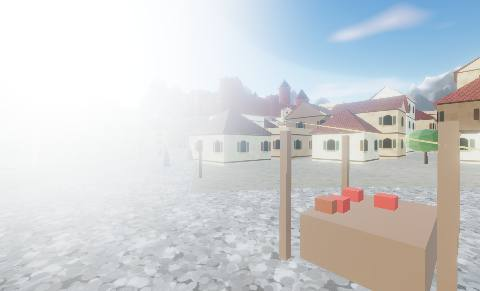
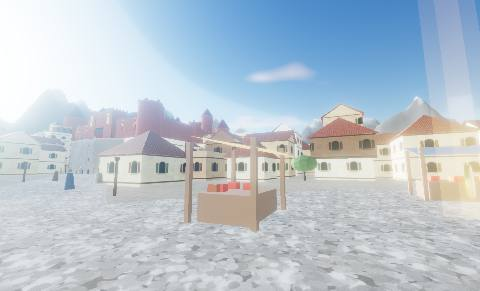
Handoff: app:install builds in a temp folder

diff --git a/games/meridian-city/vehicles.js b/games/meridian-city/vehicles.js
@@ -6,6 +6,8 @@ import { BLOCKS, BLOCK, ROAD, LANE, roadC } from './config.js';
 const DIRS = [[1, 0], [0, 1], [-1, 0], [0, -1]];
 const R = ROAD / 2;
 const COLORS = ['#b8241c', '#1f2f45', '#e8eaec', '#f2c21b', '#f2c21b', '#237a45', '#2766a8', '#7c8388', '#141414', '#d0561b', '#6b3a8c', '#b9bec3', '#15877a', '#8a1c2c'];
+// paint for specific cars, keyed by the build-mode "car n" id
+const PAINTED = { 484: '#c8221a' };
 const SHAPES = [[1, 1, 1], [1, 1, 1], [1.06, 1.22, 1.04], [1.18, 1.48, 1.08], [0.86, 0.98, 0.95]];
 const inb = (i, j) => i >= 0 && i <= BLOCKS && j >= 0 && j <= BLOCKS;
 
@@ -78,6 +80,7 @@ export class Vehicles {
     const c = new THREE.Color();
     this.list.forEach((v, k) => {
       v.k = k;
+      if (PAINTED[k]) v.color = PAINTED[k];
       this.body.setColorAt(k, c.set(v.color));
     });
     // rainbow paint: these cars cycle through the hue wheel

diff --git a/HANDOFF.md b/HANDOFF.md
@@ -84,7 +84,7 @@ One Node process per checkout owns the harness: chats, agent jobs, checkpoints a
 
 ## Desktop app: `apps/desktop/`
 
-`bun run app:install` (`apps/desktop/package.mjs`) packages `World Studio.app` with `@electron/packager`, signs it ad hoc, copies it to `~/Applications` and symlinks it onto the Desktop. `bun run app` runs the shell from source. `bun run app:icon` redraws `icon.icns` and `icon.png` from `icon.svg`.
+`bun run app:install` (`apps/desktop/package.mjs`) packages `World Studio.app` with `@electron/packager` in a temp folder (deleted afterwards, so there is only one copy on disk), signs it ad hoc, copies it to `~/Applications` and symlinks it onto the Desktop. `bun run app` runs the shell from source. `bun run app:icon` redraws `icon.icns` and `icon.png` from `icon.svg`.
 
 - The app is a thin shell. The bundle holds only `package.json` and `apps/desktop/main.js`.
   - At launch `attachOrSpawn()` reads `.harness/daemon.json` through the checkout's `packages/server/src/lock.ts`.
